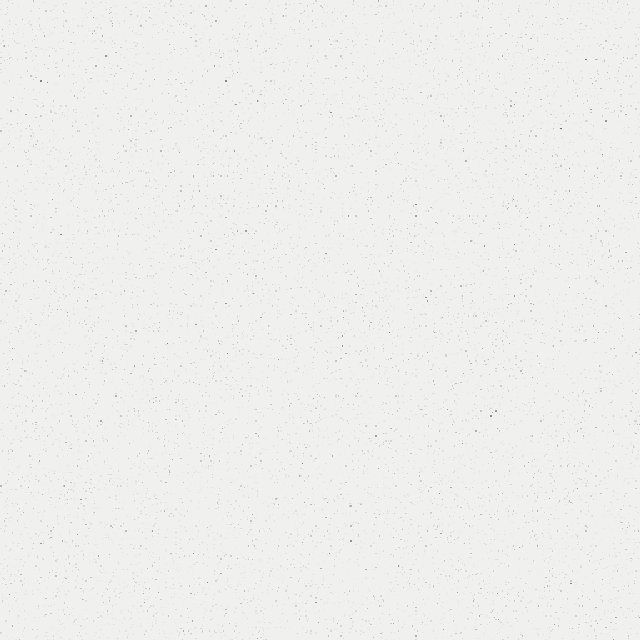
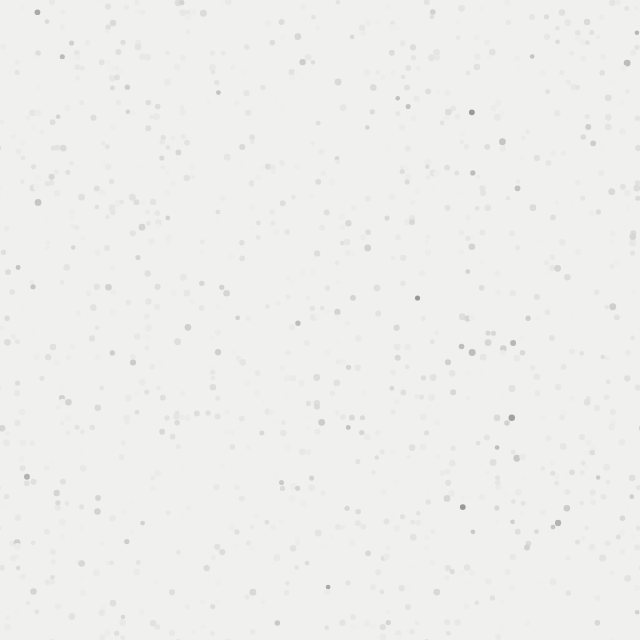
Switch grain specks from hard-edged squares to soft rounded dots
Replaced the floor()-block pixel approach with actual anti-aliased
filled circles (canvas arc()), jittered off-grid so they don't look
grid-snapped. Dropped image-rendering:pixelated on the background
pseudo-element since nearest-neighbor scaling would turn the round
edges blocky again when the browser resamples at a different zoom
level. Darkness re-tuned to std ~1.5% (measures ~1.59%) at the same
density as before.

Claude-Session: https://claude.ai/code/session_011fggGnQujPgWFTURDLSAdh

diff --git a/docs/index.html b/docs/index.html
@@ -1,4 +1,4 @@
-<!DOCTYPE html><!-- This site was created in Webflow. https://webflow.com --><!-- Last Published: Wed Jul 15 2026 11:16:08 GMT+0000 (Coordinated Universal Time) --><html data-wf-domain="rohitshettydesigns.webflow.io" data-wf-page="65c643035d88673de616b334" data-wf-site="65c643035d88673de616b2ff" data-wf-status="1" lang="en"><head><meta charset="utf-8"/><title>Rohit Shetty | UX Designer in India</title><meta content="Hey, Rohit here.👋I&#x27;m a UI/UX Designer with 5+ years of experience crafting digital solutions. I&#x27;ve honed my skills across diverse industries, including B2C, B2B, and B2G, working with companies like Jio Embibe, Dell, and Siemens. Currently pursuing a M.Des at IIT Guwahati to level up my design game." name="description"/><meta content="Rohit Shetty | UX Designer in India" property="og:title"/><meta content="Hey, Rohit here.👋I&#x27;m a UI/UX Designer with 5+ years of experience crafting digital solutions. I&#x27;ve honed my skills across diverse industries, including B2C, B2B, and B2G, working with companies like Jio Embibe, Dell, and Siemens. Currently pursuing a M.Des at IIT Guwahati to level up my design game." property="og:description"/><meta content="#" property="og:image"/><meta content="Rohit Shetty | UX Designer in India" name="twitter:title"/><meta content="Hey, Rohit here.👋I&#x27;m a UI/UX Designer with 5+ years of experience crafting digital solutions. I&#x27;ve honed my skills across diverse industries, including B2C, B2B, and B2G, working with companies like Jio Embibe, Dell, and Siemens. Currently pursuing a M.Des at IIT Guwahati to level up my design game." name="twitter:description"/><meta content="#" name="twitter:image"/><meta property="og:type" content="website"/><meta content="summary_large_image" name="twitter:card"/><meta content="width=device-width, initial-scale=1" name="viewport"/><meta content="Webflow" name="generator"/><link href="assets/wf/cdn/65c643035d88673de616b2ff/css/rohitshettydesigns.webflow.shared.aaa882da4.css" rel="stylesheet" type="text/css"/><link href="assets/custom/page-transition.css" rel="stylesheet" type="text/css"/><style>#typography.c-hero{background-color:#f0f0ef!important;}#typography.c-hero::before{content:"";position:absolute;inset:0;background-image:url("assets/custom/homepage-grain.png");background-repeat:repeat;background-size:160px 160px;image-rendering:pixelated;pointer-events:none;z-index:0;}</style><style>@media (min-width:992px) {html.w-mod-js:not(.w-mod-ix) [data-w-id="d74b1e6c-9a13-ac43-d0a9-7da04adec521"] {filter: grayscale(100%);}html.w-mod-js:not(.w-mod-ix) [data-w-id="52c2310d-bf93-932a-0e54-99cd962bd939"] {-webkit-transform:translate3d(1800px, 70px, 0) scale3d(1, 1, 1) rotateX(0) rotateY(0) rotateZ(0) skew(0, 0);-moz-transform:translate3d(1800px, 70px, 0) scale3d(1, 1, 1) rotateX(0) rotateY(0) rotateZ(0) skew(0, 0);-ms-transform:translate3d(1800px, 70px, 0) scale3d(1, 1, 1) rotateX(0) rotateY(0) rotateZ(0) skew(0, 0);transform:translate3d(1800px, 70px, 0) scale3d(1, 1, 1) rotateX(0) rotateY(0) rotateZ(0) skew(0, 0);}html.w-mod-js:not(.w-mod-ix) [data-w-id="d74b1e6c-9a13-ac43-d0a9-7da04adec521"] {filter: grayscale(0%) blur(0px);}html.w-mod-js:not(.w-mod-ix) [data-w-id="943f59eb-800a-ed21-0749-87eba4c6cf11"] {-webkit-transform:translate3d(0, 10px, 0) scale3d(1, 1, 1) rotateX(0) rotateY(0) rotateZ(0) skew(0, 0);-moz-transform:translate3d(0, 10px, 0) scale3d(1, 1, 1) rotateX(0) rotateY(0) rotateZ(0) skew(0, 0);-ms-transform:translate3d(0, 10px, 0) scale3d(1, 1, 1) rotateX(0) rotateY(0) rotateZ(0) skew(0, 0);transform:translate3d(0, 10px, 0) scale3d(1, 1, 1) rotateX(0) rotateY(0) rotateZ(0) skew(0, 0);opacity:0;}html.w-mod-js:not(.w-mod-ix) [data-w-id="1bc82fd4-2708-c96d-23b5-220bd5685b74"] {filter: blur(0px) grayscale(0%);}html.w-mod-js:not(.w-mod-ix) [data-w-id="1bc82fd4-2708-c96d-23b5-220bd5685b6d"] {-webkit-transform:translate3d(0, 10px, 0) scale3d(1, 1, 1) rotateX(0) rotateY(0) rotateZ(0) skew(0, 0);-moz-transform:translate3d(0, 10px, 0) scale3d(1, 1, 1) rotateX(0) rotateY(0) rotateZ(0) skew(0, 0);-ms-transform:translate3d(0, 10px, 0) scale3d(1, 1, 1) rotateX(0) rotateY(0) rotateZ(0) skew(0, 0);transform:translate3d(0, 10px, 0) scale3d(1, 1, 1) rotateX(0) rotateY(0) rotateZ(0) skew(0, 0);opacity:0;}}@media (max-width:991px) and (min-width:768px) {html.w-mod-js:not(.w-mod-ix) [data-w-id="d74b1e6c-9a13-ac43-d0a9-7da04adec521"] {filter: grayscale(100%);}html.w-mod-js:not(.w-mod-ix) [data-w-id="52c2310d-bf93-932a-0e54-99cd962bd939"] {-webkit-transform:translate3d(1800px, 70px, 0) scale3d(1, 1, 1) rotateX(0) rotateY(0) rotateZ(0) skew(0, 0);-moz-transform:translate3d(1800px, 70px, 0) scale3d(1, 1, 1) rotateX(0) rotateY(0) rotateZ(0) skew(0, 0);-ms-transform:translate3d(1800px, 70px, 0) scale3d(1, 1, 1) rotateX(0) rotateY(0) rotateZ(0) skew(0, 0);transform:translate3d(1800px, 70px, 0) scale3d(1, 1, 1) rotateX(0) rotateY(0) rotateZ(0) skew(0, 0);}html.w-mod-js:not(.w-mod-ix) [data-w-id="d74b1e6c-9a13-ac43-d0a9-7da04adec521"] {filter: grayscale(0%) blur(0px);}html.w-mod-js:not(.w-mod-ix) [data-w-id="943f59eb-800a-ed21-0749-87eba4c6cf11"] {-webkit-transform:translate3d(0, 10px, 0) scale3d(1, 1, 1) rotateX(0) rotateY(0) rotateZ(0) skew(0, 0);-moz-transform:translate3d(0, 10px, 0) scale3d(1, 1, 1) rotateX(0) rotateY(0) rotateZ(0) skew(0, 0);-ms-transform:translate3d(0, 10px, 0) scale3d(1, 1, 1) rotateX(0) rotateY(0) rotateZ(0) skew(0, 0);transform:translate3d(0, 10px, 0) scale3d(1, 1, 1) rotateX(0) rotateY(0) rotateZ(0) skew(0, 0);opacity:0;}html.w-mod-js:not(.w-mod-ix) [data-w-id="1bc82fd4-2708-c96d-23b5-220bd5685b74"] {filter: blur(0px) grayscale(0%);}html.w-mod-js:not(.w-mod-ix) [data-w-id="1bc82fd4-2708-c96d-23b5-220bd5685b6d"] {-webkit-transform:translate3d(0, 10px, 0) scale3d(1, 1, 1) rotateX(0) rotateY(0) rotateZ(0) skew(0, 0);-moz-transform:translate3d(0, 10px, 0) scale3d(1, 1, 1) rotateX(0) rotateY(0) rotateZ(0) skew(0, 0);-ms-transform:translate3d(0, 10px, 0) scale3d(1, 1, 1) rotateX(0) rotateY(0) rotateZ(0) skew(0, 0);transform:translate3d(0, 10px, 0) scale3d(1, 1, 1) rotateX(0) rotateY(0) rotateZ(0) skew(0, 0);opacity:0;}}@media (max-width:767px) and (min-width:480px) {html.w-mod-js:not(.w-mod-ix) [data-w-id="d74b1e6c-9a13-ac43-d0a9-7da04adec521"] {filter: grayscale(100%);}html.w-mod-js:not(.w-mod-ix) [data-w-id="52c2310d-bf93-932a-0e54-99cd962bd939"] {-webkit-transform:translate3d(600px, 70px, 0) scale3d(1, 1, 1) rotateX(0) rotateY(0) rotateZ(0) skew(0, 0);-moz-transform:translate3d(600px, 70px, 0) scale3d(1, 1, 1) rotateX(0) rotateY(0) rotateZ(0) skew(0, 0);-ms-transform:translate3d(600px, 70px, 0) scale3d(1, 1, 1) rotateX(0) rotateY(0) rotateZ(0) skew(0, 0);transform:translate3d(600px, 70px, 0) scale3d(1, 1, 1) rotateX(0) rotateY(0) rotateZ(0) skew(0, 0);}html.w-mod-js:not(.w-mod-ix) [data-w-id="d74b1e6c-9a13-ac43-d0a9-7da04adec521"] {filter: grayscale(0%) blur(0px);}html.w-mod-js:not(.w-mod-ix) [data-w-id="943f59eb-800a-ed21-0749-87eba4c6cf11"] {-webkit-transform:translate3d(0, 10px, 0) scale3d(1, 1, 1) rotateX(0) rotateY(0) rotateZ(0) skew(0, 0);-moz-transform:translate3d(0, 10px, 0) scale3d(1, 1, 1) rotateX(0) rotateY(0) rotateZ(0) skew(0, 0);-ms-transform:translate3d(0, 10px, 0) scale3d(1, 1, 1) rotateX(0) rotateY(0) rotateZ(0) skew(0, 0);transform:translate3d(0, 10px, 0) scale3d(1, 1, 1) rotateX(0) rotateY(0) rotateZ(0) skew(0, 0);opacity:0;}html.w-mod-js:not(.w-mod-ix) [data-w-id="1bc82fd4-2708-c96d-23b5-220bd5685b74"] {filter: blur(0px) grayscale(0%);}html.w-mod-js:not(.w-mod-ix) [data-w-id="1bc82fd4-2708-c96d-23b5-220bd5685b6d"] {-webkit-transform:translate3d(0, 10px, 0) scale3d(1, 1, 1) rotateX(0) rotateY(0) rotateZ(0) skew(0, 0);-moz-transform:translate3d(0, 10px, 0) scale3d(1, 1, 1) rotateX(0) rotateY(0) rotateZ(0) skew(0, 0);-ms-transform:translate3d(0, 10px, 0) scale3d(1, 1, 1) rotateX(0) rotateY(0) rotateZ(0) skew(0, 0);transform:translate3d(0, 10px, 0) scale3d(1, 1, 1) rotateX(0) rotateY(0) rotateZ(0) skew(0, 0);opacity:0;}}@media (max-width:479px) {html.w-mod-js:not(.w-mod-ix) [data-w-id="d74b1e6c-9a13-ac43-d0a9-7da04adec521"] {filter: grayscale(100%);}html.w-mod-js:not(.w-mod-ix) [data-w-id="52c2310d-bf93-932a-0e54-99cd962bd939"] {-webkit-transform:translate3d(600px, 70px, 0) scale3d(1, 1, 1) rotateX(0) rotateY(0) rotateZ(0) skew(0, 0);-moz-transform:translate3d(600px, 70px, 0) scale3d(1, 1, 1) rotateX(0) rotateY(0) rotateZ(0) skew(0, 0);-ms-transform:translate3d(600px, 70px, 0) scale3d(1, 1, 1) rotateX(0) rotateY(0) rotateZ(0) skew(0, 0);transform:translate3d(600px, 70px, 0) scale3d(1, 1, 1) rotateX(0) rotateY(0) rotateZ(0) skew(0, 0);}html.w-mod-js:not(.w-mod-ix) [data-w-id="d74b1e6c-9a13-ac43-d0a9-7da04adec521"] {filter: grayscale(0%) blur(0px);}html.w-mod-js:not(.w-mod-ix) [data-w-id="943f59eb-800a-ed21-0749-87eba4c6cf11"] {-webkit-transform:translate3d(0, 10px, 0) scale3d(1, 1, 1) rotateX(0) rotateY(0) rotateZ(0) skew(0, 0);-moz-transform:translate3d(0, 10px, 0) scale3d(1, 1, 1) rotateX(0) rotateY(0) rotateZ(0) skew(0, 0);-ms-transform:translate3d(0, 10px, 0) scale3d(1, 1, 1) rotateX(0) rotateY(0) rotateZ(0) skew(0, 0);transform:translate3d(0, 10px, 0) scale3d(1, 1, 1) rotateX(0) rotateY(0) rotateZ(0) skew(0, 0);opacity:0;}html.w-mod-js:not(.w-mod-ix) [data-w-id="1bc82fd4-2708-c96d-23b5-220bd5685b74"] {filter: blur(0px) grayscale(0%);}html.w-mod-js:not(.w-mod-ix) [data-w-id="1bc82fd4-2708-c96d-23b5-220bd5685b6d"] {-webkit-transform:translate3d(0, 10px, 0) scale3d(1, 1, 1) rotateX(0) rotateY(0) rotateZ(0) skew(0, 0);-moz-transform:translate3d(0, 10px, 0) scale3d(1, 1, 1) rotateX(0) rotateY(0) rotateZ(0) skew(0, 0);-ms-transform:translate3d(0, 10px, 0) scale3d(1, 1, 1) rotateX(0) rotateY(0) rotateZ(0) skew(0, 0);transform:translate3d(0, 10px, 0) scale3d(1, 1, 1) rotateX(0) rotateY(0) rotateZ(0) skew(0, 0);opacity:0;}}</style><link href="https://fonts.googleapis.com" rel="preconnect"/><link href="https://fonts.gstatic.com" rel="preconnect" crossorigin="anonymous"/><script src="https://ajax.googleapis.com/ajax/libs/webfont/1.6.26/webfont.js" type="text/javascript"></script><script type="text/javascript">WebFont.load({  google: {    families: ["Lato:100,100italic,300,300italic,400,400italic,700,700italic,900,900italic","Droid Sans:400,700","Varela Round:400","Montserrat:100,100italic,200,200italic,300,300italic,400,400italic,500,500italic,600,600italic,700,700italic,800,800italic,900,900italic","DM Serif Display:300,400,500,600,700","Roboto:300,400,500,600,700","Work Sans:300,400,500,600,700"]  }});</script><script type="text/javascript">!function(o,c){var n=c.documentElement,t=" w-mod-";n.className+=t+"js",("ontouchstart"in o||o.DocumentTouch&&c instanceof DocumentTouch)&&(n.className+=t+"touch")}(window,document);</script><link href="assets/wf/cdn/65c643035d88673de616b2ff/66bf13731a7ab11a67a1c184_favicon.png" rel="shortcut icon" type="image/x-icon"/><link href="assets/wf/cdn/65c643035d88673de616b2ff/66bf14723477fe76c2539744_webpage.png" rel="apple-touch-icon"/><script>(function(w,i,g){w[g]=w[g]||[];if(typeof w[g].push=='function')w[g].push.apply(w[g],Array.isArray(i)?i:[i]);})(window,['G-ZDXEFS6HFT'],'google_tags_first_party');</script><script async="" src="g0lnomhfn3mgNjVjNjQzMDM1ZDg4NjczZGU2MTZiMmZm/oxASUCndzCoal_zI_snV99_7qmg"></script><script type="text/javascript">window.dataLayer = window.dataLayer || [];function gtag(){dataLayer.push(arguments);}gtag('set', 'developer_id.dZGVlNj', true);gtag('set', 'developer_id.dYWYxNW', true);gtag('js', new Date());gtag('config', 'G-ZDXEFS6HFT');</script><style>
+<!DOCTYPE html><!-- This site was created in Webflow. https://webflow.com --><!-- Last Published: Wed Jul 15 2026 11:16:08 GMT+0000 (Coordinated Universal Time) --><html data-wf-domain="rohitshettydesigns.webflow.io" data-wf-page="65c643035d88673de616b334" data-wf-site="65c643035d88673de616b2ff" data-wf-status="1" lang="en"><head><meta charset="utf-8"/><title>Rohit Shetty | UX Designer in India</title><meta content="Hey, Rohit here.👋I&#x27;m a UI/UX Designer with 5+ years of experience crafting digital solutions. I&#x27;ve honed my skills across diverse industries, including B2C, B2B, and B2G, working with companies like Jio Embibe, Dell, and Siemens. Currently pursuing a M.Des at IIT Guwahati to level up my design game." name="description"/><meta content="Rohit Shetty | UX Designer in India" property="og:title"/><meta content="Hey, Rohit here.👋I&#x27;m a UI/UX Designer with 5+ years of experience crafting digital solutions. I&#x27;ve honed my skills across diverse industries, including B2C, B2B, and B2G, working with companies like Jio Embibe, Dell, and Siemens. Currently pursuing a M.Des at IIT Guwahati to level up my design game." property="og:description"/><meta content="#" property="og:image"/><meta content="Rohit Shetty | UX Designer in India" name="twitter:title"/><meta content="Hey, Rohit here.👋I&#x27;m a UI/UX Designer with 5+ years of experience crafting digital solutions. I&#x27;ve honed my skills across diverse industries, including B2C, B2B, and B2G, working with companies like Jio Embibe, Dell, and Siemens. Currently pursuing a M.Des at IIT Guwahati to level up my design game." name="twitter:description"/><meta content="#" name="twitter:image"/><meta property="og:type" content="website"/><meta content="summary_large_image" name="twitter:card"/><meta content="width=device-width, initial-scale=1" name="viewport"/><meta content="Webflow" name="generator"/><link href="assets/wf/cdn/65c643035d88673de616b2ff/css/rohitshettydesigns.webflow.shared.aaa882da4.css" rel="stylesheet" type="text/css"/><link href="assets/custom/page-transition.css" rel="stylesheet" type="text/css"/><style>#typography.c-hero{background-color:#f0f0ef!important;}#typography.c-hero::before{content:"";position:absolute;inset:0;background-image:url("assets/custom/homepage-grain.png");background-repeat:repeat;background-size:160px 160px;pointer-events:none;z-index:0;}</style><style>@media (min-width:992px) {html.w-mod-js:not(.w-mod-ix) [data-w-id="d74b1e6c-9a13-ac43-d0a9-7da04adec521"] {filter: grayscale(100%);}html.w-mod-js:not(.w-mod-ix) [data-w-id="52c2310d-bf93-932a-0e54-99cd962bd939"] {-webkit-transform:translate3d(1800px, 70px, 0) scale3d(1, 1, 1) rotateX(0) rotateY(0) rotateZ(0) skew(0, 0);-moz-transform:translate3d(1800px, 70px, 0) scale3d(1, 1, 1) rotateX(0) rotateY(0) rotateZ(0) skew(0, 0);-ms-transform:translate3d(1800px, 70px, 0) scale3d(1, 1, 1) rotateX(0) rotateY(0) rotateZ(0) skew(0, 0);transform:translate3d(1800px, 70px, 0) scale3d(1, 1, 1) rotateX(0) rotateY(0) rotateZ(0) skew(0, 0);}html.w-mod-js:not(.w-mod-ix) [data-w-id="d74b1e6c-9a13-ac43-d0a9-7da04adec521"] {filter: grayscale(0%) blur(0px);}html.w-mod-js:not(.w-mod-ix) [data-w-id="943f59eb-800a-ed21-0749-87eba4c6cf11"] {-webkit-transform:translate3d(0, 10px, 0) scale3d(1, 1, 1) rotateX(0) rotateY(0) rotateZ(0) skew(0, 0);-moz-transform:translate3d(0, 10px, 0) scale3d(1, 1, 1) rotateX(0) rotateY(0) rotateZ(0) skew(0, 0);-ms-transform:translate3d(0, 10px, 0) scale3d(1, 1, 1) rotateX(0) rotateY(0) rotateZ(0) skew(0, 0);transform:translate3d(0, 10px, 0) scale3d(1, 1, 1) rotateX(0) rotateY(0) rotateZ(0) skew(0, 0);opacity:0;}html.w-mod-js:not(.w-mod-ix) [data-w-id="1bc82fd4-2708-c96d-23b5-220bd5685b74"] {filter: blur(0px) grayscale(0%);}html.w-mod-js:not(.w-mod-ix) [data-w-id="1bc82fd4-2708-c96d-23b5-220bd5685b6d"] {-webkit-transform:translate3d(0, 10px, 0) scale3d(1, 1, 1) rotateX(0) rotateY(0) rotateZ(0) skew(0, 0);-moz-transform:translate3d(0, 10px, 0) scale3d(1, 1, 1) rotateX(0) rotateY(0) rotateZ(0) skew(0, 0);-ms-transform:translate3d(0, 10px, 0) scale3d(1, 1, 1) rotateX(0) rotateY(0) rotateZ(0) skew(0, 0);transform:translate3d(0, 10px, 0) scale3d(1, 1, 1) rotateX(0) rotateY(0) rotateZ(0) skew(0, 0);opacity:0;}}@media (max-width:991px) and (min-width:768px) {html.w-mod-js:not(.w-mod-ix) [data-w-id="d74b1e6c-9a13-ac43-d0a9-7da04adec521"] {filter: grayscale(100%);}html.w-mod-js:not(.w-mod-ix) [data-w-id="52c2310d-bf93-932a-0e54-99cd962bd939"] {-webkit-transform:translate3d(1800px, 70px, 0) scale3d(1, 1, 1) rotateX(0) rotateY(0) rotateZ(0) skew(0, 0);-moz-transform:translate3d(1800px, 70px, 0) scale3d(1, 1, 1) rotateX(0) rotateY(0) rotateZ(0) skew(0, 0);-ms-transform:translate3d(1800px, 70px, 0) scale3d(1, 1, 1) rotateX(0) rotateY(0) rotateZ(0) skew(0, 0);transform:translate3d(1800px, 70px, 0) scale3d(1, 1, 1) rotateX(0) rotateY(0) rotateZ(0) skew(0, 0);}html.w-mod-js:not(.w-mod-ix) [data-w-id="d74b1e6c-9a13-ac43-d0a9-7da04adec521"] {filter: grayscale(0%) blur(0px);}html.w-mod-js:not(.w-mod-ix) [data-w-id="943f59eb-800a-ed21-0749-87eba4c6cf11"] {-webkit-transform:translate3d(0, 10px, 0) scale3d(1, 1, 1) rotateX(0) rotateY(0) rotateZ(0) skew(0, 0);-moz-transform:translate3d(0, 10px, 0) scale3d(1, 1, 1) rotateX(0) rotateY(0) rotateZ(0) skew(0, 0);-ms-transform:translate3d(0, 10px, 0) scale3d(1, 1, 1) rotateX(0) rotateY(0) rotateZ(0) skew(0, 0);transform:translate3d(0, 10px, 0) scale3d(1, 1, 1) rotateX(0) rotateY(0) rotateZ(0) skew(0, 0);opacity:0;}html.w-mod-js:not(.w-mod-ix) [data-w-id="1bc82fd4-2708-c96d-23b5-220bd5685b74"] {filter: blur(0px) grayscale(0%);}html.w-mod-js:not(.w-mod-ix) [data-w-id="1bc82fd4-2708-c96d-23b5-220bd5685b6d"] {-webkit-transform:translate3d(0, 10px, 0) scale3d(1, 1, 1) rotateX(0) rotateY(0) rotateZ(0) skew(0, 0);-moz-transform:translate3d(0, 10px, 0) scale3d(1, 1, 1) rotateX(0) rotateY(0) rotateZ(0) skew(0, 0);-ms-transform:translate3d(0, 10px, 0) scale3d(1, 1, 1) rotateX(0) rotateY(0) rotateZ(0) skew(0, 0);transform:translate3d(0, 10px, 0) scale3d(1, 1, 1) rotateX(0) rotateY(0) rotateZ(0) skew(0, 0);opacity:0;}}@media (max-width:767px) and (min-width:480px) {html.w-mod-js:not(.w-mod-ix) [data-w-id="d74b1e6c-9a13-ac43-d0a9-7da04adec521"] {filter: grayscale(100%);}html.w-mod-js:not(.w-mod-ix) [data-w-id="52c2310d-bf93-932a-0e54-99cd962bd939"] {-webkit-transform:translate3d(600px, 70px, 0) scale3d(1, 1, 1) rotateX(0) rotateY(0) rotateZ(0) skew(0, 0);-moz-transform:translate3d(600px, 70px, 0) scale3d(1, 1, 1) rotateX(0) rotateY(0) rotateZ(0) skew(0, 0);-ms-transform:translate3d(600px, 70px, 0) scale3d(1, 1, 1) rotateX(0) rotateY(0) rotateZ(0) skew(0, 0);transform:translate3d(600px, 70px, 0) scale3d(1, 1, 1) rotateX(0) rotateY(0) rotateZ(0) skew(0, 0);}html.w-mod-js:not(.w-mod-ix) [data-w-id="d74b1e6c-9a13-ac43-d0a9-7da04adec521"] {filter: grayscale(0%) blur(0px);}html.w-mod-js:not(.w-mod-ix) [data-w-id="943f59eb-800a-ed21-0749-87eba4c6cf11"] {-webkit-transform:translate3d(0, 10px, 0) scale3d(1, 1, 1) rotateX(0) rotateY(0) rotateZ(0) skew(0, 0);-moz-transform:translate3d(0, 10px, 0) scale3d(1, 1, 1) rotateX(0) rotateY(0) rotateZ(0) skew(0, 0);-ms-transform:translate3d(0, 10px, 0) scale3d(1, 1, 1) rotateX(0) rotateY(0) rotateZ(0) skew(0, 0);transform:translate3d(0, 10px, 0) scale3d(1, 1, 1) rotateX(0) rotateY(0) rotateZ(0) skew(0, 0);opacity:0;}html.w-mod-js:not(.w-mod-ix) [data-w-id="1bc82fd4-2708-c96d-23b5-220bd5685b74"] {filter: blur(0px) grayscale(0%);}html.w-mod-js:not(.w-mod-ix) [data-w-id="1bc82fd4-2708-c96d-23b5-220bd5685b6d"] {-webkit-transform:translate3d(0, 10px, 0) scale3d(1, 1, 1) rotateX(0) rotateY(0) rotateZ(0) skew(0, 0);-moz-transform:translate3d(0, 10px, 0) scale3d(1, 1, 1) rotateX(0) rotateY(0) rotateZ(0) skew(0, 0);-ms-transform:translate3d(0, 10px, 0) scale3d(1, 1, 1) rotateX(0) rotateY(0) rotateZ(0) skew(0, 0);transform:translate3d(0, 10px, 0) scale3d(1, 1, 1) rotateX(0) rotateY(0) rotateZ(0) skew(0, 0);opacity:0;}}@media (max-width:479px) {html.w-mod-js:not(.w-mod-ix) [data-w-id="d74b1e6c-9a13-ac43-d0a9-7da04adec521"] {filter: grayscale(100%);}html.w-mod-js:not(.w-mod-ix) [data-w-id="52c2310d-bf93-932a-0e54-99cd962bd939"] {-webkit-transform:translate3d(600px, 70px, 0) scale3d(1, 1, 1) rotateX(0) rotateY(0) rotateZ(0) skew(0, 0);-moz-transform:translate3d(600px, 70px, 0) scale3d(1, 1, 1) rotateX(0) rotateY(0) rotateZ(0) skew(0, 0);-ms-transform:translate3d(600px, 70px, 0) scale3d(1, 1, 1) rotateX(0) rotateY(0) rotateZ(0) skew(0, 0);transform:translate3d(600px, 70px, 0) scale3d(1, 1, 1) rotateX(0) rotateY(0) rotateZ(0) skew(0, 0);}html.w-mod-js:not(.w-mod-ix) [data-w-id="d74b1e6c-9a13-ac43-d0a9-7da04adec521"] {filter: grayscale(0%) blur(0px);}html.w-mod-js:not(.w-mod-ix) [data-w-id="943f59eb-800a-ed21-0749-87eba4c6cf11"] {-webkit-transform:translate3d(0, 10px, 0) scale3d(1, 1, 1) rotateX(0) rotateY(0) rotateZ(0) skew(0, 0);-moz-transform:translate3d(0, 10px, 0) scale3d(1, 1, 1) rotateX(0) rotateY(0) rotateZ(0) skew(0, 0);-ms-transform:translate3d(0, 10px, 0) scale3d(1, 1, 1) rotateX(0) rotateY(0) rotateZ(0) skew(0, 0);transform:translate3d(0, 10px, 0) scale3d(1, 1, 1) rotateX(0) rotateY(0) rotateZ(0) skew(0, 0);opacity:0;}html.w-mod-js:not(.w-mod-ix) [data-w-id="1bc82fd4-2708-c96d-23b5-220bd5685b74"] {filter: blur(0px) grayscale(0%);}html.w-mod-js:not(.w-mod-ix) [data-w-id="1bc82fd4-2708-c96d-23b5-220bd5685b6d"] {-webkit-transform:translate3d(0, 10px, 0) scale3d(1, 1, 1) rotateX(0) rotateY(0) rotateZ(0) skew(0, 0);-moz-transform:translate3d(0, 10px, 0) scale3d(1, 1, 1) rotateX(0) rotateY(0) rotateZ(0) skew(0, 0);-ms-transform:translate3d(0, 10px, 0) scale3d(1, 1, 1) rotateX(0) rotateY(0) rotateZ(0) skew(0, 0);transform:translate3d(0, 10px, 0) scale3d(1, 1, 1) rotateX(0) rotateY(0) rotateZ(0) skew(0, 0);opacity:0;}}</style><link href="https://fonts.googleapis.com" rel="preconnect"/><link href="https://fonts.gstatic.com" rel="preconnect" crossorigin="anonymous"/><script src="https://ajax.googleapis.com/ajax/libs/webfont/1.6.26/webfont.js" type="text/javascript"></script><script type="text/javascript">WebFont.load({  google: {    families: ["Lato:100,100italic,300,300italic,400,400italic,700,700italic,900,900italic","Droid Sans:400,700","Varela Round:400","Montserrat:100,100italic,200,200italic,300,300italic,400,400italic,500,500italic,600,600italic,700,700italic,800,800italic,900,900italic","DM Serif Display:300,400,500,600,700","Roboto:300,400,500,600,700","Work Sans:300,400,500,600,700"]  }});</script><script type="text/javascript">!function(o,c){var n=c.documentElement,t=" w-mod-";n.className+=t+"js",("ontouchstart"in o||o.DocumentTouch&&c instanceof DocumentTouch)&&(n.className+=t+"touch")}(window,document);</script><link href="assets/wf/cdn/65c643035d88673de616b2ff/66bf13731a7ab11a67a1c184_favicon.png" rel="shortcut icon" type="image/x-icon"/><link href="assets/wf/cdn/65c643035d88673de616b2ff/66bf14723477fe76c2539744_webpage.png" rel="apple-touch-icon"/><script>(function(w,i,g){w[g]=w[g]||[];if(typeof w[g].push=='function')w[g].push.apply(w[g],Array.isArray(i)?i:[i]);})(window,['G-ZDXEFS6HFT'],'google_tags_first_party');</script><script async="" src="g0lnomhfn3mgNjVjNjQzMDM1ZDg4NjczZGU2MTZiMmZm/oxASUCndzCoal_zI_snV99_7qmg"></script><script type="text/javascript">window.dataLayer = window.dataLayer || [];function gtag(){dataLayer.push(arguments);}gtag('set', 'developer_id.dZGVlNj', true);gtag('set', 'developer_id.dYWYxNW', true);gtag('js', new Date());gtag('config', 'G-ZDXEFS6HFT');</script><style>
 body .transition {display: block}
 .w-editor .transition {display: none;}
 .no-scroll-transition {overflow: hidden; position: relative;}
